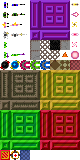
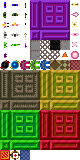
Decoupled weapon sprites from enemy sprites

diff --git a/src/SSVBloodshed/OBFactory.cpp b/src/SSVBloodshed/OBFactory.cpp
@@ -163,12 +163,12 @@ namespace ob
 	Entity& OBFactory::createPlayer(const Vec2i& mPos)
 	{
 		auto tpl(createKillableBase(mPos, {650, 650}, OBLayer::LPlayer, 10));
-		auto& cDir8(getEntity(tpl).createComponent<OBCDir8>());
-		auto& cWielder(getEntity(tpl).createComponent<OBCWielder>(getCPhys(tpl), getCDraw(tpl), cDir8));
-		auto& cWpnController(getEntity(tpl).createComponent<OBCWpnController>(getCPhys(tpl), OBGroup::GEnemyKillable));
-		getEntity(tpl).createComponent<OBCPlayer>(getCPhys(tpl), getCDraw(tpl), getCKillable(tpl), cWielder, cWpnController);
 		emplaceSpriteByTile(getCDraw(tpl), assets.txSmall, assets.p1Stand);
 		emplaceSpriteByTile(getCDraw(tpl), assets.txSmall, assets.p1Gun);
+		auto& cDir8(getEntity(tpl).createComponent<OBCDir8>());
+		auto& cWielder(getEntity(tpl).createComponent<OBCWielder>(getCPhys(tpl), getCDraw(tpl), cDir8, assets.p1Stand, assets.p1Shoot));
+		auto& cWpnController(getEntity(tpl).createComponent<OBCWpnController>(getCPhys(tpl), OBGroup::GEnemyKillable));
+		getEntity(tpl).createComponent<OBCPlayer>(getCPhys(tpl), getCDraw(tpl), getCKillable(tpl), cWielder, cWpnController);
 		return getEntity(tpl);
 	}
 	Entity& OBFactory::createExplosiveCrate(const Vec2i& mPos, int mId)
@@ -225,11 +225,11 @@ namespace ob
 	{
 		auto tpl(createEnemyBase(mPos, {600, 600}, 4));
 		auto& cDir8(getEntity(tpl).createComponent<OBCDir8>());
-		auto& cWielder(getEntity(tpl).createComponent<OBCWielder>(getCPhys(tpl), getCDraw(tpl), cDir8));
+		auto& cWielder(getEntity(tpl).createComponent<OBCWielder>(getCPhys(tpl), getCDraw(tpl), cDir8, assets.e1Stand, assets.e1Shoot));
 		auto& cWpnController(getEntity(tpl).createComponent<OBCWpnController>(getCPhys(tpl), OBGroup::GFriendly));
 		getEntity(tpl).createComponent<OBCERunner>(getCEnemy(tpl), cWielder, cWpnController, mArmed);
-		emplaceSpriteByTile(getCDraw(tpl), assets.txSmall, assets.e1AStand);
-		emplaceSpriteByTile(getCDraw(tpl), assets.txSmall, assets.e1AGun);
+		emplaceSpriteByTile(getCDraw(tpl), assets.txSmall, assets.e1Shoot);
+		emplaceSpriteByTile(getCDraw(tpl), assets.txSmall, assets.e1Gun);
 		return getEntity(tpl);
 	}
 	Entity& OBFactory::createECharger(const Vec2i& mPos, bool mArmed)
@@ -237,22 +237,22 @@ namespace ob
 		auto tpl(createEnemyBase(mPos, {1100, 1100}, 18));
 		auto& cFloorSmasher(getEntity(tpl).createComponent<OBCFloorSmasher>(getCPhys(tpl)));
 		auto& cDir8(getEntity(tpl).createComponent<OBCDir8>());
-		auto& cWielder(getEntity(tpl).createComponent<OBCWielder>(getCPhys(tpl), getCDraw(tpl), cDir8));
+		auto& cWielder(getEntity(tpl).createComponent<OBCWielder>(getCPhys(tpl), getCDraw(tpl), cDir8, assets.e2Stand, assets.e2Shoot));
 		auto& cWpnController(getEntity(tpl).createComponent<OBCWpnController>(getCPhys(tpl), OBGroup::GFriendly));
 		getEntity(tpl).createComponent<OBCECharger>(getCEnemy(tpl), cFloorSmasher, cWielder, cWpnController, mArmed);
-		emplaceSpriteByTile(getCDraw(tpl), assets.txMedium, assets.e2AStand);
-		emplaceSpriteByTile(getCDraw(tpl), assets.txMedium, assets.e2AGun);
+		emplaceSpriteByTile(getCDraw(tpl), assets.txMedium, assets.e2Stand);
+		emplaceSpriteByTile(getCDraw(tpl), assets.txMedium, assets.e2Gun);
 		return getEntity(tpl);
 	}
 	Entity& OBFactory::createEJuggernaut(const Vec2i& mPos, bool mArmed)
 	{
 		auto tpl(createEnemyBase(mPos, {2100, 2100}, 36));
 		auto& cDir8(getEntity(tpl).createComponent<OBCDir8>());
-		auto& cWielder(getEntity(tpl).createComponent<OBCWielder>(getCPhys(tpl), getCDraw(tpl), cDir8));
+		auto& cWielder(getEntity(tpl).createComponent<OBCWielder>(getCPhys(tpl), getCDraw(tpl), cDir8, assets.e3Stand, assets.e3Shoot));
 		auto& cWpnController(getEntity(tpl).createComponent<OBCWpnController>(getCPhys(tpl), OBGroup::GFriendly));
 		getEntity(tpl).createComponent<OBCEJuggernaut>(getCEnemy(tpl), cWielder, cWpnController, mArmed);
-		emplaceSpriteByTile(getCDraw(tpl), assets.txBig, assets.e3AStand);
-		emplaceSpriteByTile(getCDraw(tpl), assets.txBig, assets.e3AGun);
+		emplaceSpriteByTile(getCDraw(tpl), assets.txBig, assets.e3Stand);
+		emplaceSpriteByTile(getCDraw(tpl), assets.txBig, assets.e3Gun);
 		return getEntity(tpl);
 	}
 	Entity& OBFactory::createEGiant(const Vec2i& mPos)
@@ -260,14 +260,14 @@ namespace ob
 		auto tpl(createEnemyBase(mPos, {2500, 2500}, 100));
 		getEntity(tpl).createComponent<OBCFloorSmasher>(getCPhys(tpl), true);
 		getEntity(tpl).createComponent<OBCEGiant>(getCEnemy(tpl));
-		emplaceSpriteByTile(getCDraw(tpl), assets.txGiant, assets.e4UAStand);
+		emplaceSpriteByTile(getCDraw(tpl), assets.txGiant, assets.e4Stand);
 		return getEntity(tpl);
 	}
 	Entity& OBFactory::createEEnforcer(const Vec2i& mPos)
 	{
 		auto tpl(createEnemyBase(mPos, {1200, 1200}, 30));
 		getEntity(tpl).createComponent<OBCEEnforcer>(getCEnemy(tpl));
-		emplaceSpriteByTile(getCDraw(tpl), assets.txMedium, assets.e5UAStand);
+		emplaceSpriteByTile(getCDraw(tpl), assets.txMedium, assets.e5Stand);
 		return getEntity(tpl);
 	}
 	Entity& OBFactory::createETurretStarPlasma(const Vec2i& mPos, Dir8 mDir)

diff --git a/include/SSVBloodshed/LevelEditor/OBLEDatabase.h b/include/SSVBloodshed/LevelEditor/OBLEDatabase.h
@@ -57,16 +57,16 @@ namespace ob
 				add(OBLETType::LETTurretCP,			a.txSmall,		a.eTurret1,				{{"rot", 0}},				[this](TLevel&, TTile& mT, const Vec2i& mP){ f->createETurretCannonPlasma(mP, getDir8FromDeg(getP<float>(mT, "rot"))); });
 				add(OBLETType::LETTurretBP,			a.txSmall,		a.eTurret2,				{{"rot", 0}},				[this](TLevel&, TTile& mT, const Vec2i& mP){ f->createETurretBulletPlasma(mP, getDir8FromDeg(getP<float>(mT, "rot"))); });
 				add(OBLETType::LETPlayer,			a.txSmall,		a.p1Stand,				{{"rot", 0}},				[this](TLevel&, TTile&, const Vec2i& mP){ f->createPlayer(mP); });
-				add(OBLETType::LETRunner,			a.txSmall,		a.e1UAStand,			{{"rot", 0}},				[this](TLevel&, TTile&, const Vec2i& mP){ f->createERunner(mP, false); });
-				add(OBLETType::LETRunnerArmed,		a.txSmall,		a.e1AStand,				{{"rot", 0}},				[this](TLevel&, TTile&, const Vec2i& mP){ f->createERunner(mP, true); });
-				add(OBLETType::LETCharger,			a.txMedium,		a.e2UAStand,			{{"rot", 0}},				[this](TLevel&, TTile&, const Vec2i& mP){ f->createECharger(mP, false); });
-				add(OBLETType::LETChargerArmed,		a.txMedium,		a.e2AStand,				{{"rot", 0}},				[this](TLevel&, TTile&, const Vec2i& mP){ f->createECharger(mP, true); });
-				add(OBLETType::LETJuggernaut,		a.txBig,		a.e3UAStand,			{{"rot", 0}},				[this](TLevel&, TTile&, const Vec2i& mP){ f->createEJuggernaut(mP, false); });
-				add(OBLETType::LETJuggernautArmed,	a.txBig,		a.e3AStand,				{{"rot", 0}},				[this](TLevel&, TTile&, const Vec2i& mP){ f->createEJuggernaut(mP, true); });
-				add(OBLETType::LETGiant,			a.txGiant,		a.e4UAStand,			{{"rot", 0}},				[this](TLevel&, TTile&, const Vec2i& mP){ f->createEGiant(mP); });
+				add(OBLETType::LETRunner,			a.txSmall,		a.e1Stand,				{{"rot", 0}},				[this](TLevel&, TTile&, const Vec2i& mP){ f->createERunner(mP, false); });
+				add(OBLETType::LETRunnerArmed,		a.txSmall,		a.e1Shoot,				{{"rot", 0}},				[this](TLevel&, TTile&, const Vec2i& mP){ f->createERunner(mP, true); });
+				add(OBLETType::LETCharger,			a.txMedium,		a.e2Stand,				{{"rot", 0}},				[this](TLevel&, TTile&, const Vec2i& mP){ f->createECharger(mP, false); });
+				add(OBLETType::LETChargerArmed,		a.txMedium,		a.e2Shoot,				{{"rot", 0}},				[this](TLevel&, TTile&, const Vec2i& mP){ f->createECharger(mP, true); });
+				add(OBLETType::LETJuggernaut,		a.txBig,		a.e3Stand,				{{"rot", 0}},				[this](TLevel&, TTile&, const Vec2i& mP){ f->createEJuggernaut(mP, false); });
+				add(OBLETType::LETJuggernautArmed,	a.txBig,		a.e3Shoot,				{{"rot", 0}},				[this](TLevel&, TTile&, const Vec2i& mP){ f->createEJuggernaut(mP, true); });
+				add(OBLETType::LETGiant,			a.txGiant,		a.e4Stand,				{{"rot", 0}},				[this](TLevel&, TTile&, const Vec2i& mP){ f->createEGiant(mP); });
 				add(OBLETType::LETBall,				a.txSmall,		a.eBall,				{},							[this](TLevel&, TTile&, const Vec2i& mP){ f->createEBall(mP, false, false); });
 				add(OBLETType::LETBallFlying,		a.txSmall,		a.eBallFlying,			{},							[this](TLevel&, TTile&, const Vec2i& mP){ f->createEBall(mP, true, false); });
-				add(OBLETType::LETEnforcer,			a.txMedium,		a.e5UAStand,			{{"rot", 0}},				[this](TLevel&, TTile&, const Vec2i& mP){ f->createEEnforcer(mP); });
+				add(OBLETType::LETEnforcer,			a.txMedium,		a.e5Stand,				{{"rot", 0}},				[this](TLevel&, TTile&, const Vec2i& mP){ f->createEEnforcer(mP); });
 				add(OBLETType::LETTrapdoor,			a.txSmall,		a.trapdoor,				{},							[this](TLevel&, TTile&, const Vec2i& mP){ f->createTrapdoor(mP, false); });
 				add(OBLETType::LETTrapdoorPOnly,	a.txSmall,		a.trapdoorPOnly,		{},							[this](TLevel&, TTile&, const Vec2i& mP){ f->createTrapdoor(mP, true); });
 				add(OBLETType::LETExplosiveCrate,	a.txSmall,		a.explosiveCrate,		{{"id", -1}},				[this](TLevel&, TTile& mT, const Vec2i& mP){ f->createFloor(mP, true); f->createExplosiveCrate(mP, getP<int>(mT, "id")); });

diff --git a/include/SSVBloodshed/OBAssets.h b/include/SSVBloodshed/OBAssets.h
@@ -34,7 +34,7 @@ namespace ob
 			sf::IntRect p2Stand,		p2Shoot,		p2Gun;								// Player class 2
 			sf::IntRect p3Stand,		p3Shoot,		p3Gun;								// Player class 3
 			sf::IntRect p4Stand,		p4Shoot,		p4Gun;								// Player class 4
-			sf::IntRect e1UAStand, 		e1AStand,		e1AShoot,		e1AGun;				// Runner alien
+			sf::IntRect e1Stand, 		e1Shoot,		e1Gun;								// Runner alien
 			sf::IntRect floor,			floorAlt1,		floorAlt2;							// Floor
 			sf::IntRect floorGrate,		floorGrateAlt1,	floorGrateAlt2;						// Floor grate
 			sf::IntRect pit,			trapdoor,		trapdoorPOnly;						// Pit and trapdoor
@@ -47,16 +47,17 @@ namespace ob
 			sf::IntRect explosiveCrate;														// Explosive crate
 			sf::IntRect vmHealth;															// Vending machines
 			sf::IntRect null0;																// Empty tile
+			sf::IntRect gunPCannon;
 
 			// Medium tileset (20x20)
-			sf::IntRect e2UAStand,		e2AStand,		e2AShoot,		e2AGun;				// Charger alien
-			sf::IntRect e5UAStand;															// Enforcer alien
+			sf::IntRect e2Stand,		e2Shoot,		e2Gun;								// Charger alien
+			sf::IntRect e5Stand;															// Enforcer alien
 
 			// Big tileset (30x30)
-			sf::IntRect e3UAStand,		e3AStand,		e3AShoot,		e3AGun;				// Juggernaut alien
+			sf::IntRect e3Stand,		e3Shoot,		e3Gun;								// Juggernaut alien
 
 			// Giant tileset (40x40)
-			sf::IntRect e4UAStand;															// Giant alien
+			sf::IntRect e4Stand;															// Giant alien
 
 			#define WALLTSDECL(x)	sf::IntRect x ## Single,	x ## Cross,		x ## V,			x ## H, \
 												x ## CornerSW,	x ## CornerSE,	x ## CornerNW,	x ## CornerNE, \
@@ -113,7 +114,7 @@ namespace ob
 				T_TSSMALL(p2Stand);			T_TSSMALL(p2Shoot);			T_TSSMALL(p2Gun);
 				T_TSSMALL(p3Stand);			T_TSSMALL(p3Shoot);			T_TSSMALL(p3Gun);
 				T_TSSMALL(p4Stand);			T_TSSMALL(p4Shoot);			T_TSSMALL(p4Gun);
-				T_TSSMALL(e1UAStand); 		T_TSSMALL(e1AStand);		T_TSSMALL(e1AShoot);		T_TSSMALL(e1AGun);
+				T_TSSMALL(e1Stand); 		T_TSSMALL(e1Shoot);			T_TSSMALL(e1Gun);
 				T_TSSMALL(floor);			T_TSSMALL(floorAlt1);		T_TSSMALL(floorAlt2);
 				T_TSSMALL(floorGrate);		T_TSSMALL(floorGrateAlt1);	T_TSSMALL(floorGrateAlt2);
 				T_TSSMALL(pit);				T_TSSMALL(trapdoor);		T_TSSMALL(trapdoorPOnly);
@@ -126,17 +127,18 @@ namespace ob
 				T_TSSMALL(explosiveCrate);
 				T_TSSMALL(vmHealth);
 				T_TSSMALL(null0);
+				T_TSSMALL(gunPCannon);
 				WALLTS(wall); WALLTS(wallD); WALLTS(door); WALLTS(doorG); WALLTS(doorR);
 
 				// Medium tileset (20x20)
-				T_TSMEDIUM(e2UAStand); 		T_TSMEDIUM(e2AStand);		T_TSMEDIUM(e2AShoot);		T_TSMEDIUM(e2AGun);
-				T_TSMEDIUM(e5UAStand);
+				T_TSMEDIUM(e2Stand); 		T_TSMEDIUM(e2Shoot);		T_TSMEDIUM(e2Gun);
+				T_TSMEDIUM(e5Stand);
 
 				// Big tileset (30x30)
-				T_TSBIG(e3UAStand);			T_TSBIG(e3AStand);			T_TSBIG(e3AShoot);			T_TSBIG(e3AGun);
+				T_TSBIG(e3Stand);			T_TSBIG(e3Shoot);			T_TSBIG(e3Gun);
 
 				// Giant tileset (40x40)
-				T_TSGIANT(e4UAStand);
+				T_TSGIANT(e4Stand);
 
 				#undef T_TSSMALL
 				#undef T_TSMEDIUM

diff --git a/include/SSVBloodshed/Components/OBCEnemyTypes.h b/include/SSVBloodshed/Components/OBCEnemyTypes.h
@@ -73,14 +73,10 @@ namespace ob
 				else cBoid.seek(ssvs::getOrbitFromDeg(cTargeter.getPosF(), cDir8.getDeg() + 180, mPursuitDist), 0.02f, 750.f);
 			}
 			inline void faceShootDir() { cDir8 = getDir8FromDeg(cEnemy.getCurrentDeg()); }
-			inline void recalculateTile(const sf::IntRect& mUnarmedStand, const sf::IntRect& mArmedStand, const sf::IntRect& mArmedShoot)
+			inline void recalculateTile()
 			{
-				if(armed)
-				{
-					cDraw[0].setRotation(cDir8.getDeg());
-					cDraw[0].setTextureRect(cWielder.isShooting() ? mArmedShoot : mArmedStand);
-				}
-				else cDraw[0].setTextureRect(mUnarmedStand);
+				if(armed) cDraw[0].setRotation(cDir8.getDeg());
+				else cDraw[1].setColor(sf::Color::Transparent);
 			}
 
 			inline void shootGun()
@@ -99,6 +95,8 @@ namespace ob
 				cWpnController.setWpn(OBWpnTypes::createEPlasmaBulletGun());
 				cEnemy.setMinBounceVel(125.f); cEnemy.setMaxVel(200.f);
 				cKillable.setType(OBCKillable::Type::Organic);
+				cWielder.setHoldDist(2.f);
+				cWielder.setWieldDist(8.f);
 			}
 			inline void update(float) override
 			{
@@ -119,7 +117,7 @@ namespace ob
 				}
 				else cWielder.setShooting(false);
 			}
-			inline void draw() override { recalculateTile(assets.e1UAStand, assets.e1AStand, assets.e1AShoot); }
+			inline void draw() override { recalculateTile(); }
 	};
 
 	class OBCECharger : public OBCEArmedBase
@@ -138,7 +136,8 @@ namespace ob
 			{
 				cWpnController.setWpn(OBWpnTypes::createEPlasmaBulletGun(1, 8.f));
 				cEnemy.setMinBounceVel(20.f); cEnemy.setMaxVel(50.f);
-				cWielder.setWieldDist(2000.f);
+				cWielder.setHoldDist(5.f);
+				cWielder.setWieldDist(16.f);
 				cKillable.setType(OBCKillable::Type::Organic);
 				cKillable.setParticleMult(2);
 
@@ -175,7 +174,7 @@ namespace ob
 				}
 				else cWielder.setShooting(false);
 			}
-			inline void draw() override { recalculateTile(assets.e2UAStand, assets.e2AStand, assets.e2AShoot); }
+			inline void draw() override { recalculateTile(); }
 	};
 
 	class OBCEJuggernaut : public OBCEArmedBase
@@ -197,7 +196,8 @@ namespace ob
 				cKillable.onDeath += [this]{ assets.playSound("Sounds/alienDeath.wav"); };
 				cKillable.setType(OBCKillable::Type::Organic);
 				cKillable.setParticleMult(2);
-				cWielder.setWieldDist(2800.f);
+				cWielder.setWieldDist(22.f);
+				cWielder.setHoldDist(6.f);
 
 				repeat(tlShoot, [this]{ shootUnarmed(ssvu::getRnd(-10, 10)); }, 8, 1.1f);
 				repeat(tlShoot, [this]{ game.createPCharge(4, cPhys.getPosPx(), 55); }, 15, 1.f);
@@ -229,7 +229,7 @@ namespace ob
 				}
 				else cWielder.setShooting(false);
 			}
-			inline void draw() override { recalculateTile(assets.e3UAStand, assets.e3AStand, assets.e3AShoot); }
+			inline void draw() override { recalculateTile(); }
 
 			inline void shootUnarmed(int mDeg)
 			{

diff --git a/include/SSVBloodshed/Components/OBCWielder.h b/include/SSVBloodshed/Components/OBCWielder.h
@@ -17,25 +17,40 @@ namespace ob
 		private:
 			OBCDir8& cDir8;
 			bool shooting{false};
-			float wieldDist{1000.f};
+			float holdDist{2.f}, wieldDist{8.f};
+			sf::IntRect rectStand, rectShoot;
 
 		public:
-			OBCWielder(OBCPhys& mCPhys, OBCDraw& mCDraw, OBCDir8& mCDir8) noexcept : OBCActorBase{mCPhys, mCDraw}, cDir8(mCDir8) { }
+			OBCWielder(OBCPhys& mCPhys, OBCDraw& mCDraw, OBCDir8& mCDir8, const sf::IntRect& mRectStand, const sf::IntRect& mRectShoot) noexcept
+				: OBCActorBase{mCPhys, mCDraw}, cDir8(mCDir8), rectStand{mRectStand}, rectShoot{mRectShoot} { }
 
 			inline void draw() override
 			{
-				if(!shooting) return;
-				cDraw[1].setRotation(cDir8.getDeg());
-				cDraw.getOffsets()[1] = cDir8.getVec(toPixels(wieldDist));
+				if(shooting)
+				{
+					cDraw[0].setTextureRect(rectShoot);
+					cDraw[1].setRotation(cDir8.getDeg() - 90);
+					cDraw.getOffsets()[1] = cDir8.getVec(wieldDist);
+				}
+				else
+				{
+					cDraw[0].setTextureRect(rectStand);
+					cDraw[1].setRotation(cDir8.getDeg());
+					cDraw.getOffsets()[1] = cDir8.getVec(holdDist);
+				}
 			}
 
-			inline void setShooting(bool mValue) noexcept		{ shooting = mValue; cDraw[1].setColor(sf::Color(255, 255, 255, shooting ? 255 : 0)); }
-			inline void setWieldDist(float mValue) noexcept		{ wieldDist = mValue; }
+			inline void setShooting(bool mValue) noexcept					{ shooting = mValue; }
+			inline void setHoldDist(float mValue) noexcept					{ holdDist = mValue; }
+			inline void setWieldDist(float mValue) noexcept					{ wieldDist = mValue; }
+			inline void setRectStand(const sf::IntRect& mRect) noexcept		{ rectStand = mRect; }
+			inline void setRectShoot(const sf::IntRect& mRect) noexcept		{ rectShoot = mRect; }
 
 			inline OBCDir8& getCDir8() const noexcept			{ return cDir8; }
 			inline bool isShooting() const noexcept				{ return shooting; }
-			inline Vec2i getShootingPos() const noexcept		{ return cPhys.getPosI() + Vec2i(cDir8.getVec(wieldDist)); }
+			inline Vec2i getShootingPos() const noexcept		{ return cPhys.getPosI() + Vec2i(cDir8.getVec(toCoords(wieldDist))); }
 	};
 }
 
 #endif
+

diff --git a/include/SSVBloodshed/Components/OBCPlayer.h b/include/SSVBloodshed/Components/OBCPlayer.h
@@ -42,8 +42,15 @@ namespace ob
 
 			int currentWpn{0}, currentShards{0}, shards{0};
 			std::vector<OBWpnType> weaponTypes{OBWpnTypes::createMachineGun(), OBWpnTypes::createPlasmaBolter(), OBWpnTypes::createPlasmaCannon()};
+			std::vector<sf::IntRect> weaponRects{assets.p1Gun, assets.e1Gun, assets.gunPCannon};
 
-			inline void cycleWeapons(int mDir) noexcept { currentWpn += mDir; cWpnController.setWpn(ssvu::getByWrapIdx(weaponTypes, currentWpn)); }
+			inline void cycleWeapons(int mDir) noexcept
+			{
+				currentWpn += mDir;
+				const auto& i(ssvu::getWrapIdx(currentWpn, weaponTypes.size()));
+				cWpnController.setWpn(weaponTypes[i]);
+				cDraw[1].setTextureRect(weaponRects[i]);
+			}
 			inline void useVM();
 
 		public:
@@ -52,6 +59,7 @@ namespace ob
 
 			inline void init() override
 			{
+				cWielder.setWieldDist(7.f);
 				cKillable.getCHealth().setCooldown(2.5f);
 				cycleWeapons(0);
 
@@ -137,7 +145,6 @@ namespace ob
 			inline void draw() override
 			{
 				cDraw[0].setRotation(cDir8.getDeg());
-				cDraw[0].setTextureRect(cWielder.isShooting() ? assets.p1Shoot : assets.p1Stand);
 			}
 
 			inline void bomb()

diff --git a/include/SSVBloodshed/OBGame.h b/include/SSVBloodshed/OBGame.h
@@ -244,7 +244,7 @@ namespace ob
 }
 
 // TODO: bullet sensor pressure plates, SSVSC refactoring/optimization
-// TODO: decouple weapon sprite from enemy sprite, explosives, enemy orientation, organic group?, do not pierce breakable wall etc
+// TODO  enemy orientation, organic group?, do not pierce breakable wall etc
 // TODO: tripwires, laserwires, powerups, classes, weapon sets, etc
 // TODO: bullet knockback? replicators? spawners?
 // TODO: major group/facotry refactoring!, fuses, ammunition

diff --git a/include/SSVBloodshed/OBCommon.h b/include/SSVBloodshed/OBCommon.h
@@ -168,7 +168,7 @@ namespace ob
 		assert(mTimes > 0);
 		auto& action(mTimeline.append<ssvu::Do>(mAction));
 		mTimeline.append<ssvu::Wait>(mWait);
-		mTimeline.append<ssvu::Go>(action.getIdx(), mTimes - 1);
+		mTimeline.append<ssvu::Goto>(action, mTimes - 1);
 	}
 
 	// Other utils
